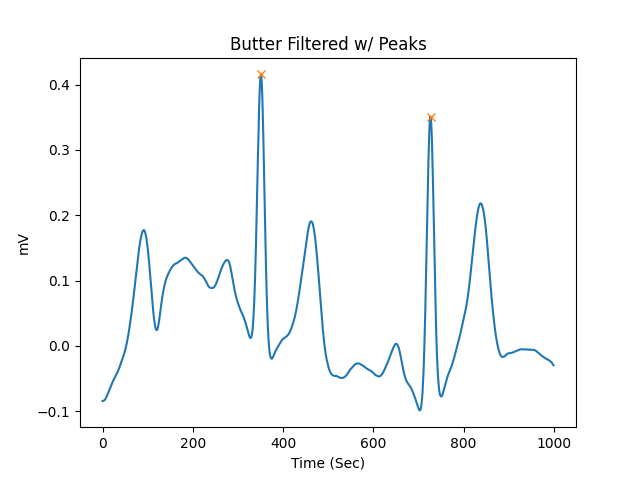
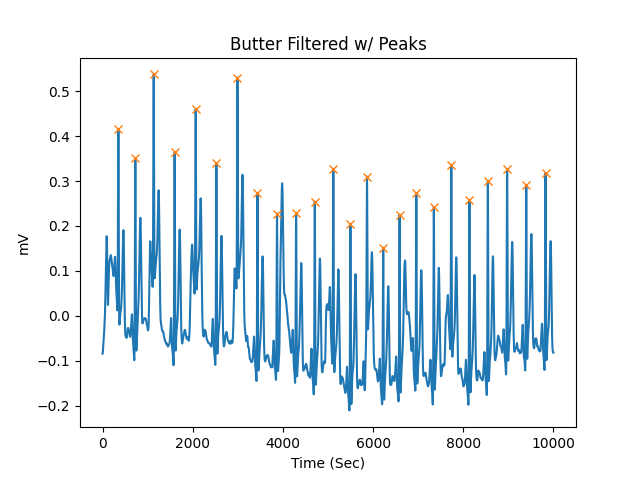
Added Engzee Peak Detection

diff --git a/test2.py b/test2.py
@@ -6,6 +6,7 @@ import numpy as np
 import os
 from scipy.fft import fft, ifft
 import wfdb
+from ecgdetectors import Detectors
 
 os.chdir("/Users/dhruvmodi/Desktop/ECG-Filtering/ecg-database/Person_01/")
 #just some data reading
@@ -13,14 +14,16 @@ record = wfdb.rdrecord('rec_1')
 wfdb.plot_wfdb(record=record, title='MIT record 1')
 display(record.__dict__)
 
+sampTo = 10000
+sampTime = 20
 
 #read in noisy data for 2 seconds
-signals, fields = wfdb.rdsamp('rec_1', channels=[0], sampfrom=0, sampto= 1000) #194400)
+signals, fields = wfdb.rdsamp('rec_1', channels=[0], sampfrom=0, sampto= sampTo) #194400)
 #read in clean data for 2 seconds
-signals0, fields0 = wfdb.rdsamp('rec_1', channels=[1], sampfrom=0, sampto= 1000) #194400)
+signals0, fields0 = wfdb.rdsamp('rec_1', channels=[1], sampfrom=0, sampto= sampTo) #194400)
 #assign variables and create time-frame
 sampling_freq = 500
-sampling_duration = 2
+sampling_duration = sampTime
 number_of_samples = int(sampling_freq * sampling_duration)
 time = np.linspace(0, sampling_duration, number_of_samples, endpoint=False)
 
@@ -29,7 +32,7 @@ os.chdir("/Users/dhruvmodi/Desktop/ECG-Filtering/")
 
 #plot noisy data vs clean
 plt.plot(time, signals, 'b-', label='signal')
-plt.plot(time, signals0, 'g-', linewidth=2, label='filtered signal')
+plt.plot(time, signals0, 'g-', label='filtered signal')
 plt.legend(['Unfiltered ECG', 'True ECG'])
 plt.grid(False)
 plt.xlabel('Time (Sec)')
@@ -76,7 +79,7 @@ print("2nd Order Butter SNR: " + str(SNR))
 signals = signals.T
 f = fft(signals)
 f = np.abs(f)
-freq = np.fft.fftfreq(1000, d=1/500)
+freq = np.fft.fftfreq(sampTo, d=1/500)
 plt.plot(freq, f.T)
 #plt.plot(np.linspace(0, 30,30), np.linspace(0, 30,30)) #check a good cutoff freq
 plt.legend(['Frequency Magnitudes'])
@@ -98,7 +101,7 @@ sys = signal.lti([36982.24852071],[1,576.92307692308,36982.24852071]) #cutoff fr
 #Transfer function does same -> function is 36982.24852071 / s^2 + 576.92307692308s + 36982.24852071
 #^ created from 2 Resistors at 1.3 kilo Ohms and 2 Caps at 4 micro Farrads
 
-t = np.linspace(0, 2, 1000)
+t = np.linspace(0, sampTime, sampTo)
 tout, y, x = signal.lsim2(sys, signals, t)
 
 plt.plot(t, signals)
@@ -121,11 +124,36 @@ print("2nd Order RC SNR: " + str(SNR2))
 
 #R-Peak Detection
 
+fs = 500
+detectors = Detectors(fs)
+
 x1 = fsignals.T
 x1 = x1.flatten()
 x2 = y.T
 x2 = x2.flatten()
 
+r_peaks1 = detectors.engzee_detector(x1)
+r_peaks2 = detectors.engzee_detector(x2)
+
+plt.plot(x1)
+plt.plot(r_peaks1, x1[r_peaks1], "x")
+plt.grid(False)
+plt.xlabel('Time (Sec)')
+plt.ylabel('mV')
+plt.title('Butter Filtered w/ Peaks')
+plt.savefig('Plots/Digital RPeak 300.png')
+plt.show()
+
+plt.plot(x2)
+plt.plot(r_peaks2, x2[r_peaks2], "x")
+plt.grid(False)
+plt.xlabel('Time (Sec)')
+plt.ylabel('mV')
+plt.title('RC Filtered w/ Peaks')
+plt.savefig('Plots/Analog RPeak 300.png')
+plt.show()
+
+'''
 peaks1, _ = signal.find_peaks(x1, distance=300)
 np.diff(peaks1)
 peaks2, _ = signal.find_peaks(x2, distance=300)
@@ -148,5 +176,6 @@ plt.ylabel('mV')
 plt.title('RC Filtered w/ Peaks')
 plt.savefig('Plots/Analog RPeak 300.png')
 plt.show()
+'''
 
 #from DWT_denoising import DWT_denoising -> for wavelet

diff --git a/wavelet_decomp.py b/wavelet_decomp.py
@@ -1,0 +1,88 @@
+#!/usr/bin/env python3
+# -*- coding: utf-8 -*-
+"""
+Created on Tue Sep 29 14:58:39 2020
+
+@author: miagiandinoto
+"""
+
+import matplotlib.pyplot as plt
+import numpy as np
+import os
+import math
+import wfdb
+import pywt
+
+startSamp=0
+endSamp=1000
+N=endSamp-startSamp
+
+os.chdir('/Users/dhruvmodi/Desktop/ECG-Filtering/ecg-database/Person_01/')
+sig,fields=wfdb.rdsamp('rec_1',channels=[0], sampfrom=startSamp, sampto=endSamp)
+sig2=sig.flatten()
+fs=fields.get('fs')
+
+#next line figures out level of decomposition so that lowest approximation 
+#coefficient takes in frequencies that are ,<=0.5 Hz (usual cutoff for removing baseline wander)
+level=math.floor(math.log(fs/0.5,2))
+waveName='db6'
+coeffs = pywt.wavedec(sig2, waveName,level=level)
+
+#plots original signal
+fig=plt.figure(figsize=(20,15))
+fig.add_subplot(level+2,1,1)
+plt.plot(sig)
+
+#plots all coefficients below original signal
+for i in range(level):
+    fig.add_subplot(level+2,1,i+2)
+    plt.plot(coeffs[i])
+plt.show()
+
+#reconstructing the signal with noise removed
+#cA4=pywt.downcoef('a',sig2,wavelet='db6',level=4)
+cD1 = np.array(coeffs[level])
+# THRESHOLD SELECTION
+mediancD1 = np.median(cD1)
+sigma = mediancD1 / .6457
+t = sigma * math.sqrt(2 * math.log(N, 10))
+
+#thresholds coefficients- need to explore this more
+newCoeffs = [(pywt.threshold(subArr,t,mode='soft')) for subArr in coeffs]
+
+#this section replaces cA8(lowest approx. coeff that contains baseline wander)
+#and cD1(contains most of the high frequency noise) with arrays of zeros
+cA=coeffs[1]
+cD1=coeffs[-1]
+zerosA=np.zeros(cA.shape,dtype=float)
+zerosD=np.zeros(cD1.shape,dtype=float)
+newCoeffs[0]=zerosA
+newCoeffs[-1]=zerosD
+
+#reconstructs denoised signal without cA8 or cD1, with all other coeffs thresholded
+denoised=pywt.waverec(newCoeffs,wavelet=waveName)
+
+#plots original signal(top),denoised signal(middle), and clean signal(bottom)
+fig2=plt.figure(figsize=(20,10))
+
+fig2.add_subplot(3,1,1)
+plt.plot(sig2)
+
+fig2.add_subplot(3,1,2)
+plt.plot(denoised)
+
+fig2.add_subplot(3,1,3)
+
+cleanSig,field=wfdb.rdsamp('rec_1',channels=[1],sampfrom=startSamp, sampto=endSamp)
+plt.plot(cleanSig.flatten())
+plt.show()
+
+noise = sig2-cleanSig
+plt.plot(noise)
+plt.show()
+ms1 = np.mean(denoised**2)
+ms2 = np.mean(noise**2)
+SNR2 = 10 * np.log(ms1/ms2)
+print("2nd Order RC SNR: " + str(SNR2))
+
+plt.plot()

diff --git a/RPeaks.py b/RPeaks.py
@@ -13,7 +13,7 @@ os.chdir("/Users/dhruvmodi/Desktop/ECG-Filtering/ecg-database/Person_01/")
 signals, fields = wfdb.rdsamp('rec_1', channels=[0], sampfrom=0, sampto= 1000)
 
 #unfiltered_ecg_dat = np.loadtxt(example_dir)
-unfiltered_ecg = signals
+unfiltered_ecg = signals.flatten()
 fs = 500
 
 detectors = Detectors(fs)
